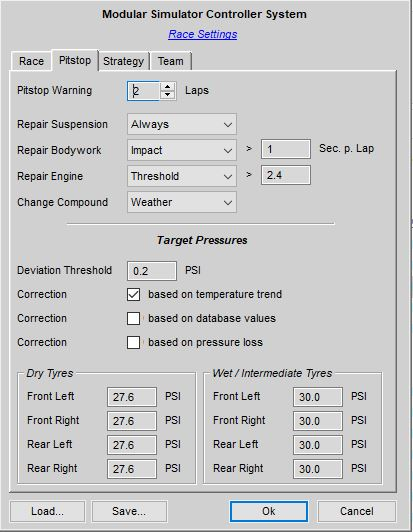
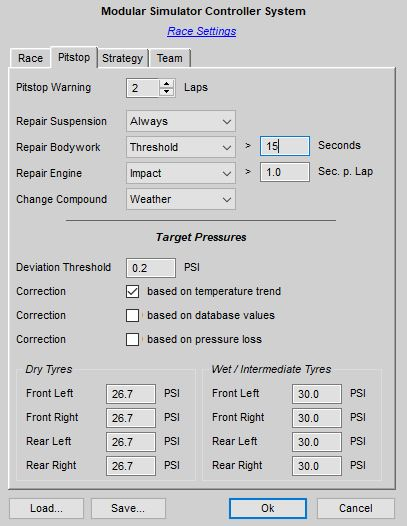
Beta Build 5.4.2.0-beta

Changed region(s): [[0.0, 0.0, 1.0, 1.0], [0.0, 0.0, 0.0295, 0.0304]]

diff --git a/Docs/Releases.md b/Docs/Releases.md
@@ -6,13 +6,17 @@
   5. Fixed FCY handling by the Strategist for cases when traffic simulation has been disabled.
   6. Fixed a bug for explicit tyre set selection in solo races with more than two pitstops.
   7. The scaling of widgets in all windows on high DPI monitors with activated size scaling has been optimized. Should look pretty good now.
-  8. The pitstop info widget on the "Session" page of the "System Monitor" now includes the required time for the pitstop incl. pitlane delta.
-  9. The required pitstop time has also been included ["Session State.json" file](https://github.com/SeriousOldMan/Simulator-Controller/wiki/Plugins-&-Modes#plugin-integration) generated by the ["Integration"  plugin](https://github.com/SeriousOldMan/Simulator-Controller/wiki/Plugins-&-Modes#plugin-integration).
-  10. New simulator specific [settings](https://github.com/SeriousOldMan/Simulator-Controller/wiki/Race-Settings) in the "Session Database", which define the conversion between internal damage values for bodywork, suspension and engine damage and the time in seconds needed for repair the damage.
-  11. New car models for "Setup Workbench":
+  8. The duration of pitstop service and repairs as well as the pitlane delta will be shown in the pitstop info window in "Race Center". See the [revised documentation](https://github.com/SeriousOldMan/Simulator-Controller/wiki/Team-Server#initiating-a-pitstop-for-the-current-driver) for more information.
+  9. The pitstop info widget on the "Session" page of the "System Monitor" now includes the required time for the pitstop incl. pitlane delta.
+  10. The required pitstop time has also been included ["Session State.json" file](https://github.com/SeriousOldMan/Simulator-Controller/wiki/Plugins-&-Modes#plugin-integration) generated by the ["Integration"  plugin](https://github.com/SeriousOldMan/Simulator-Controller/wiki/Plugins-&-Modes#plugin-integration).
+  11. New simulator specific [settings](https://github.com/SeriousOldMan/Simulator-Controller/wiki/Race-Settings) in the "Session Database", which define the conversion between internal damage values for bodywork, suspension and engine damage and the time in seconds needed for repair the damage.
+  12. The behaviour of the "Treshold" choice for repairs in "Race Settings" has changed. Please see the [revised documentation](https://github.com/SeriousOldMan/Simulator-Controller/wiki/Virtual-Race-Engineer#tab-pitstop) for more information.
+  13. New car models for "Setup Workbench":
       - Assetto Corsa
 	     Lotus Evora GTE
 	     Lotus Evora GTE Carbon
+
+Please also take a look at the [Update Notes](https://github.com/SeriousOldMan/Simulator-Controller/wiki/Update-Notes#release-542).
 
 ## 5.4.1.2-release 10/16/23
   1. Fixed a **critical** bug for *Assetto Corsa* which refuses to work after a fresh installation.
@@ -582,7 +586,7 @@ Please also take a look at the [Update Notes](https://github.com/SeriousOldMan/S
   5. "Race Center" now provides detailed information about the pitstops of all cars. This information is available in the details report for each lap.
   6. New [*hotkey* controller action function](https://github.com/SeriousOldMan/Simulator-Controller/wiki/Installation-&-Configuration#actions) allows you to program special keyboard sequences which then can be triggered by a push of a button or by issuing a voice command.
   7. A new "Copy" button in "Race Center" lets you select one of the predefined tyre pressure setups or one of the past pitstops settings which will then be used to [initialize the fields](https://github.com/SeriousOldMan/Simulator-Controller/wiki/Team-Server#planning-a-pitstop) in the "Pitstop" tab.
-  8. "Race Center" can now display the actual settings in the Pitstop MFD for those simulators, which support read the data. See the [revised documentation](https://github.com/SeriousOldMan/Simulator-Controller/wiki/Team-Server#initiating-a-pitstop-for-the-current-driver) for more information.
+  8. "Race Center" can now display the actual settings in the Pitstop MFD for those simulators, which support reading this data. See the [revised documentation](https://github.com/SeriousOldMan/Simulator-Controller/wiki/Team-Server#initiating-a-pitstop-for-the-current-driver) for more information.
   9. Fixed several tyre compound meta data after the recent *rFactor 2* update.
   10. Increased reliability of repair setting choices in *Assetto Corsa Competizione*.
   11. Reduced frequency of blue flag alerts by the Spotter.

diff --git a/Docs/Virtual Race Engineer.md b/Docs/Virtual Race Engineer.md
@@ -299,7 +299,13 @@ The second tab, *Pitstop*, contains information that will be used to derived the
 
 ![](https://github.com/SeriousOldMan/Simulator-Controller/blob/main/Docs/Images/Race%20Settings%202.JPG)
 
-The upper area with the three dropdown menus give you you control over several decisions, Jona will take for an upcoming pitstop. For the repair settings you can decide between "Never", "Always", "Threshold" and "Impact", where "Threshold" will allow you to enter a value. If the current damage is above this value, Jona will advise to go for a repair on the next pitstop. Please note, that these values are NOT to be confused with the number of seconds needed to repair the given damage, which are for example shown on the *Assetto Corsa Competizione* Pitstop MFD. Also, the range of these values will differ between simulators and are difficult to interpret, therefore I recommend to use the "Impact" rule, whenever possible. For "Impact" you can enter a number of seconds. Jona will analyse your lap time and will go for a repair, if your lap time is slower by the number you entered with regards to the reference laps just before the accident. Beside that, I advise to go always for a repair for supsension damage, since additional damage in the next accident will most likely be catastrophic.
+The upper area with the three dropdown menus give you you control over several decisions, Jona will take for an upcoming pitstop. For the repair settings you can decide between "Never", "Always", "Threshold" and "Impact".
+
+  - "Threshold" will allow you to enter a value, which defines a level of damage as seconds that will be needed to repair this damage during a pitstop. . If the repair duration is above this value, Jona will advise to go for a repair on the next pitstop. The data APIs of the different simulators report damage differently. Typical are values between 0% and 100%, but *Assetto Corsa Competizione*, for example, report a meaningless, although linear rising number. To support a conversion to repair duration, you must set a conversion factor for a given simulator in the [settings](https://github.com/SeriousOldMan/Simulator-Controller/wiki/Race-Settings) in the "Session Database". The conversion factor can be set independently for bodywork, suspension and engine repair, and I will provide a growing number of defaults for the different sims.
+
+  In many cases it is not a godd idea to decide based on the repair duration, whether a repair is useful. Sometimes a damage, for example at the side of the car, has no bad influence on lap time. Therefore I recommend to use the "Impact" rule, whenever possible.
+  
+  - For "Impact" you can also enter a number of seconds. Jona will analyse your lap time and will go for a repair, if your lap time is slower by the number you entered with regards to the reference laps just before the accident. Jona will also consider the time needed for the repair with regards to the remaining session or stint time. Beside that, I advise to go always for a repair for supsension damage, since additional damage in a next accident will most likely be catastrophic.
 
 For tyre compound changes, you can choose between the triggers "Never", "Tyre Temperature" and "Weather". If you choose "Weather", Jona will advise wet tyres for light rain or worse and dry tyres for a dry track or drizzle. "Tyre Temperature" will allow you to enter a temperature threshold, where Jona will plan a tyre change, if the tyre temeprature falls outside its optimal temperature window by this amount. For dry tyres, the optimal temperature is considered to be above 70 Degrees and for wet tyres below 55 Degrees.
 

diff --git a/Docs/Race Settings.md b/Docs/Race Settings.md
@@ -149,7 +149,7 @@ The following settings are only available, if you have selected the correspondin
 | Pitstop    | Key Delay                                | Integer | 20                              | The time in ms to wait between each virtual key press, when controlling the pitstop dialog of *Assetto Corsa Competizione*. Increase this, if your computer can't keep up with the speed of the virtual input. |
 | Pitstop    | Image Search                             | Boolean | False                           | If enabled (*True*), the [image search method](https://github.com/SeriousOldMan/Simulator-Controller/wiki/Plugins-&-Modes#important-preparation-for-the-pitstop-mfd-handling) is used, when controlling the Pitstop MFD of *Assetto Corsa Competizione*. If you enable this, because the default option walk disturbs you while driving, you have to provide the search images as described in the [documentation] for the ["ACC" plugin](https://github.com/SeriousOldMan/Simulator-Controller/wiki/Plugins-&-Modes#plugin-acc). |
 | Pitstop    | Repair duration for bodywork damage      | Float   | 0.141175939                     | This value is multiplied with the internal damage percentage to compute the number of seconds need to repair the bodywork at a pitstop. |
-| Pitstop    | Repair duration for suspension damage    | Float   | 31.333333573                    | This value is multiplied with the internal damage percentage to compute the number of seconds need to repair the suspension at a pitstop. |
+| Pitstop    | Repair duration for suspension damage    | Float   | 31.0                            | This value is multiplied with the internal damage percentage to compute the number of seconds need to repair the suspension at a pitstop. |
 | Pitstop    | Repair duration for engine damage        | Float   | 0.0                             | This value is multiplied with the internal damage percentage to compute the number of seconds need to repair the engine at a pitstop. |
 
 3. *Automobilista 2*, *Project Cars 2*, *iRacing* and *RaceRoom Racing Experience*

diff --git a/README.md b/README.md
@@ -45,7 +45,9 @@ Please read the [Release Notes](https://github.com/SeriousOldMan/Simulator-Contr
 
 #### Latest development build
 
-None for the moment...
+[5.4.2.0-beta](https://www.dropbox.com/scl/fi/wxrn1xxy1q0l5nbi2ef4u/Simulator-Controller-5.4.2.0-beta.zip?rlkey=im5lwx6met67528lk6sl2uxtm&dl=1) (Test version for 5.4.2. Changes: Fixed transfer of tyre setup from first stint to pitstop fields in "Race Center", Another fix for the critical runaway loop during install and update, New window appearance on DPI scaled monitors, Fixed FCY for cases without traffic simulation, Fixed a bug for explicit tyre set selection with pitstops > 2, New pitstop duration field in "System Monitor", New pitstop duration fields in state JSON, Support for repair time calculation by the Engineer for different damages, Display of different pitstop times in "Race Center", Repair "Threshold" in "Race Settings" is now in seconds, New car models for "Setup Workbench".)
+
+Please read the [Release Notes](https://github.com/SeriousOldMan/Simulator-Controller/wiki/Release-Notes) and - even more important - the release specific [Update Notes](https://github.com/SeriousOldMan/Simulator-Controller/wiki/Update-Notes#release-542) of this version and all the versions you might have skipped, before installing and using this version.
 
 ### Documentation
 

diff --git a/Docs/Team Server.md b/Docs/Team Server.md
@@ -389,6 +389,8 @@ This floating window, which can be left open all the time, will be updated once 
 
    Only chosen cold tyre pressures are available here.
 
+Most of the time, additional information will be available for the duration of the normal pitstop service (refueling and tyre change), the time needed for the repairs (whether this value will be correct, depends on correct values in the [settings](https://github.com/SeriousOldMan/Simulator-Controller/wiki/Race-Settings) in the "Session Database" for conversion between internal damage values of the simulator and the corresponding repair duration), and also the pitlane delta, which is the time difference between a drive-by and a drive-thorugh the pitlane. This value is also taken from the [settings](https://github.com/SeriousOldMan/Simulator-Controller/wiki/Race-Settings) in the "Session Database".
+
 #### Planning and preparing pitstops in a team race using the Race Assistants
 
 You probably already have used the Race Engineer to plan and prepare a pitstop during solo races or even have used the Race Strategist to run a full race with a pre-selected strategy. Although in most cases these duties will be taken by your team mates in a team race, it is still possible to use the Assistants as additional support as well. The following applies:

diff --git a/Docs/Updates.md b/Docs/Updates.md
@@ -37,7 +37,9 @@ Note: Some of you might want to have more control. No problem. All the files in 
 
 ## Release 5.4.2
 
-No manual updates required.
+If you have used the "Threshold" choice for repair settings either in the "Race Settings" or as default value in the "Session Database", you may have to change this value. The "Threshold" is now labeled as seconds need to repair the given damage. The calculation uses [conversion factors](https://github.com/SeriousOldMan/Simulator-Controller/wiki/Race-Settings) to derive the repair time needed from the internal damage value of the given simulator. For *Assetto Corsa Competizione*, the conversion factor are already known, for the other simulators they will be added with the next releases. If, you derive a conversion factor on your own, let me know, so that I can add them to the defaults.
+
+You can, however, use your old threshold values, if you set the conversion factor to **1** for each damage type (bodywork, suspension, engine). However, in this case, the unit of the threshold is not "Seconds", which does no harm in the repair calculations, but will result in wrong values for pitstop duration calaculations in "System Monitor" and "Race Center".
 
 ***
 
